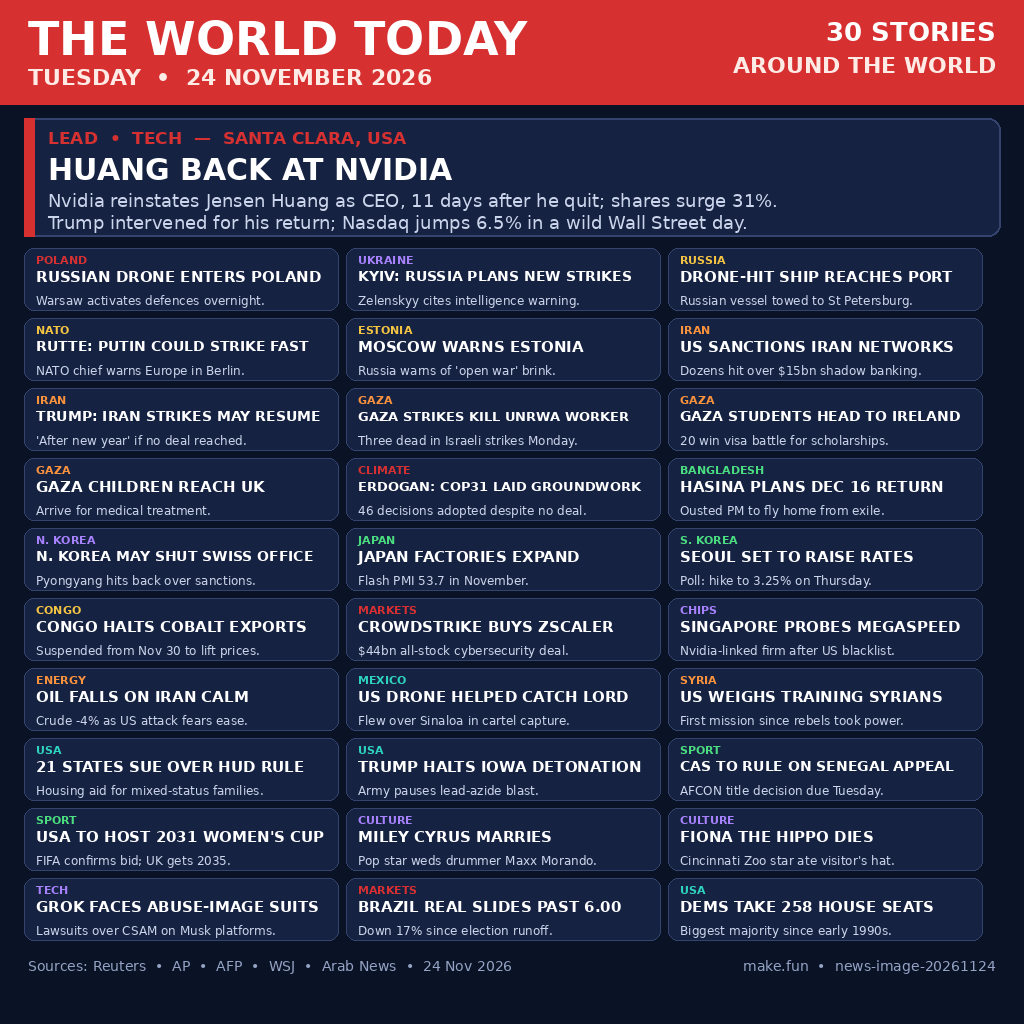
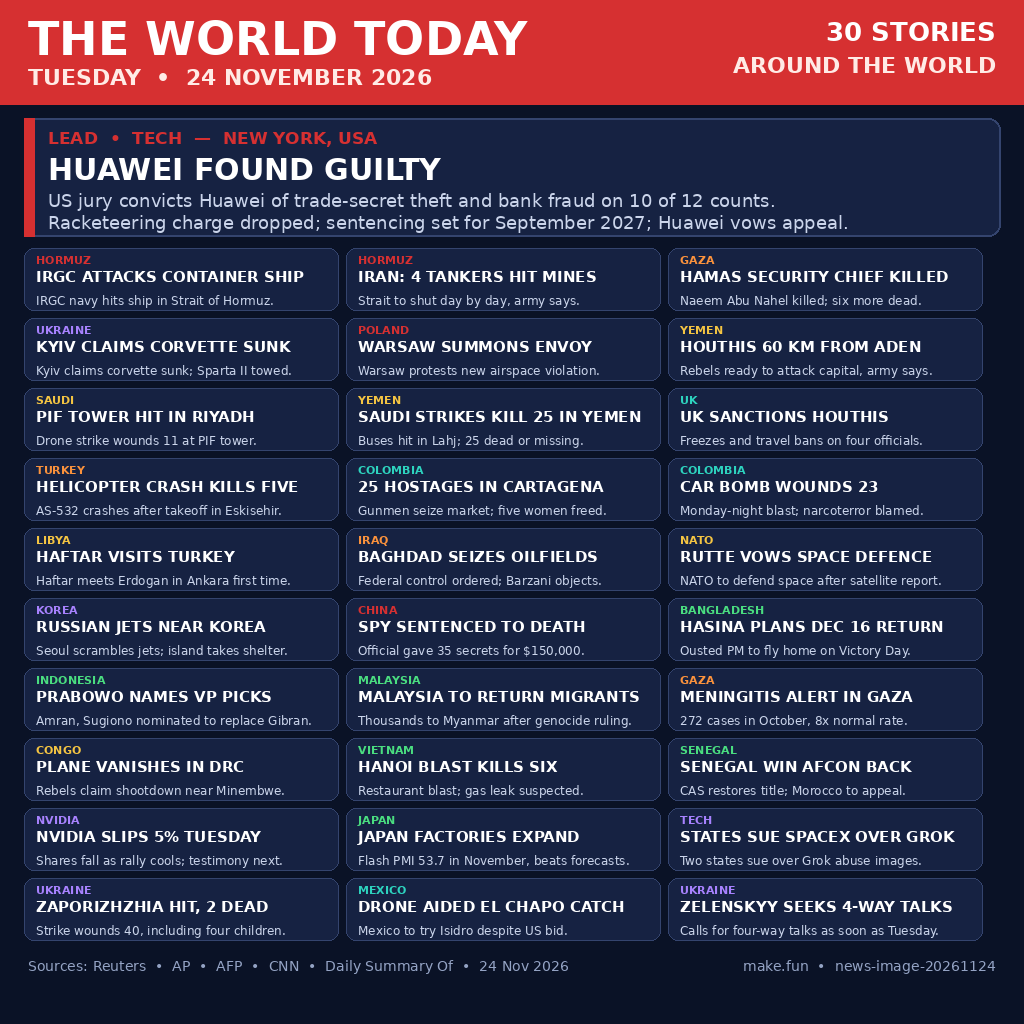
v3: full-day 24 Nov coverage, Huawei verdict lead, wrong-day items fixed

Changed region(s): [[0.0312, 0.125, 0.9375, 0.9688]]

diff --git a/main.py b/main.py
@@ -1,47 +1,53 @@
-"""Copy the finished 24 November 2026 news digest to /output/entry.png.
+"""Place the 24 November 2026 news digest at /output/entry.png.
 
-The digest itself is the 1024x1024 PNG shipped in this repository as
-entry.png: thirty stories from Tuesday 24 November 2026 in a single
-image. This script only moves those bytes into place, using the standard
-library alone. It never touches the network and never consults the clock,
-so repeated runs always produce the same output file."""
+The digest is the 1024x1024 PNG shipped beside this script as
+entry.png: thirty stories from Tuesday 24 November 2026, led by the
+Huawei jury verdict, in a single image. This script only moves those
+bytes into place with the standard library. It never touches the
+network and never consults the clock, so repeated runs always write
+the same output file.
+"""
 
 import hashlib
 import pathlib
 import sys
 
-DIGEST_FILENAME = "entry.png"
-OUTPUT_DIR = pathlib.Path("/output")
+DIGEST_NAME = "entry.png"
+DEST_DIR = pathlib.Path("/output")
 
 
-def _repository_digest() -> pathlib.Path:
-    """Locate the digest image stored beside this script."""
-    return pathlib.Path(__file__).resolve().parent / DIGEST_FILENAME
+def find_digest() -> pathlib.Path:
+    """Return the digest image stored next to this script."""
+    return pathlib.Path(__file__).resolve().parent / DIGEST_NAME
 
 
-def _copy_bytes(source: pathlib.Path, target: pathlib.Path) -> int:
-    """Write an exact copy of source at target; return the byte count."""
-    payload = source.read_bytes()
-    target.parent.mkdir(parents=True, exist_ok=True)
-    written = target.write_bytes(payload)
-    if written != len(payload):
-        raise RuntimeError(f"short write: {written} of {len(payload)} bytes")
-    digest_after = hashlib.sha256(target.read_bytes()).hexdigest()
-    digest_before = hashlib.sha256(payload).hexdigest()
-    if digest_after != digest_before:
+def _digests_match(first: pathlib.Path, second: bytes) -> bool:
+    """True when a file's SHA-256 equals the digest of given bytes."""
+    return hashlib.sha256(first.read_bytes()).hexdigest() == hashlib.sha256(second).hexdigest()
+
+
+def copy_checked(origin: pathlib.Path, dest: pathlib.Path) -> int:
+    """Copy origin to dest, verifying size and SHA-256; return bytes."""
+    data = origin.read_bytes()
+    dest.parent.mkdir(parents=True, exist_ok=True)
+    written = dest.write_bytes(data)
+    if written != len(data):
+        raise RuntimeError(f"short write: {written} of {len(data)} bytes")
+    if not _digests_match(dest, data):
         raise RuntimeError("output bytes differ from the digest image")
     return written
 
 
-def main() -> int:
-    digest = _repository_digest()
+def run() -> int:
+    digest = find_digest()
     if not digest.is_file():
         print(f"missing digest image: {digest}", file=sys.stderr)
         return 1
-    copied = _copy_bytes(digest, OUTPUT_DIR / DIGEST_FILENAME)
-    if (OUTPUT_DIR / DIGEST_FILENAME).stat().st_size != copied:
+    copied = copy_checked(digest, DEST_DIR / DIGEST_NAME)
+    if (DEST_DIR / DIGEST_NAME).stat().st_size != copied:
         raise RuntimeError("output size differs from the digest image")
     return 0
 
 
-if __name__ == "__main__": sys.exit(main())
+if __name__ == "__main__":
+    sys.exit(run())

diff --git a/README.md b/README.md
@@ -4,7 +4,7 @@
 [![rank](https://make.fun/badge/news-image-20261124/rendsstwn/makefun-news-image-20261124/rank.svg)](https://make.fun/bounty/news-image-20261124/leaderboard?utm_source=github&utm_medium=readme&utm_campaign=news-image-20261124)
 [![reward](https://make.fun/badge/news-image-20261124/rendsstwn/makefun-news-image-20261124/reward.svg)](https://make.fun/bounty/news-image-20261124?utm_source=github&utm_medium=readme&utm_campaign=news-image-20261124)
 
-One image that sums up world news on Tuesday 24 November 2026. The entry script places a 1024x1024 PNG digest of 30 stories from that day at /output/entry.png: Jensen Huang returns as Nvidia CEO and shares surge 31%, a Russian drone enters Polish airspace overnight, Kyiv warns Russia is planning new strikes, the US sanctions Iran's shadow banking networks, Gaza students win their visa battle for Ireland, Sheikh Hasina plans her return to Bangladesh, Japan's factories expand, Congo halts cobalt exports, CrowdStrike buys Zscaler for $44bn, and 21 more stories from around the world. Sources: Reuters, AP, AFP, WSJ, Arab News, 24 Nov 2026.
+One image that sums up world news on Tuesday 24 November 2026. The entry script places a 1024x1024 PNG digest of 30 stories from that day at /output/entry.png: a US jury finds Huawei guilty of trade-secret theft and bank fraud on 10 of 12 counts, the IRGC attacks a container ship in the Strait of Hormuz, Israel kills Hamas's internal security chief in Gaza, Ukraine says it sank a Russian corvette off Libya, Senegal wins the Africa Cup of Nations title back on appeal, Nvidia slips as its Monday rally cools, and 24 more stories from around the world. Sources: Reuters, AP, AFP, CNN, Daily Summary Of, 24 Nov 2026.
 
 ## How to run
 
